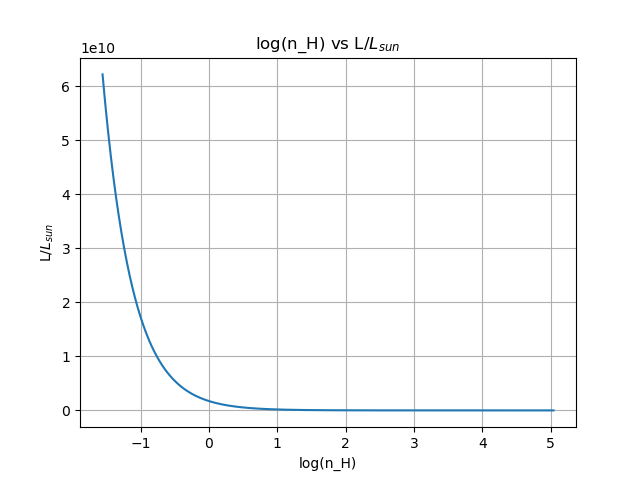
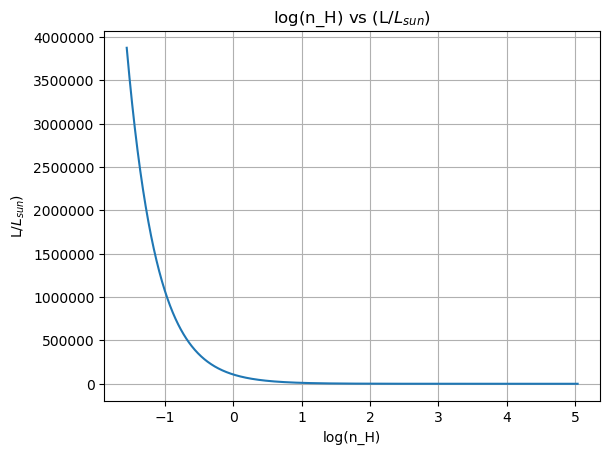
Units changed, file content changed
rad_tranfer.py --> main file for RT in LTE, will be renamed later
rt_LTE --> code dump from ine's code
Changed and added some constants in constants_lineRT.py
Changed all SI to CGS

diff --git a/rad_transfer.py b/rad_transfer.py
@@ -2,6 +2,7 @@ import numpy as np
 import matplotlib.pyplot as plt
 import os
 import copy
+from matplotlib.ticker import FormatStrFormatter as ticks
 
 from constants_lineRT import *
 
@@ -61,7 +62,7 @@ def read_file(species):
         i = int(words[1]) - 1
         j = int(words[2]) - 1
         A[i][j] = float(words[3])  # s^-1
-        freq[i][j] = float(words[4]) #* 1e9  # GHz -> Hz
+        freq[i][j] = float(words[4]) * 1e9  # GHz -> Hz
         freq[j][i] = freq[i][j]
     # compute B-coefficient via Einstein relations
     # Bij = coeff for stimulated emission, Bji = coeff for extinction (j<i)
@@ -69,7 +70,7 @@ def read_file(species):
     for i in range(0, num_lvls):
         for j in range(0, i):
             if A[i][j] != 0:
-                B[i][j] = A[i][j] * (c_si**2) / \
+                B[i][j] = A[i][j] * (c_cgs**2) / \
                     (2*h_ev * (freq[i][j])**3)  # m2/(eV*s)
                 B[j][i] = B[i][j] * g[i]/g[j]
 
@@ -93,13 +94,13 @@ def calc_source_func(T, nu_ij):
     if nu_ij==0.:
         return 0.
     else:
-        x = h_si*nu_ij/(kb_si*T)
-        # units eV*s * Hz3 / (m2/s2) = eV * s3 * Hz3 * m-2 = eV/s/Hz/m2
-        S_nu = 2.0*h_ev*(nu_ij**3)/(c**2) / (np.exp(x)-1.0)
+        x = h_ev*nu_ij/(kb_ev*T)
+        # units eV*s * Hz3 / (cm2/s2) = eV * s3 * Hz3 * cm-2 = eV/s/Hz/cm2
+        S_nu = 2.0*h_ev*(nu_ij**3)/(c_cgs**2) / (np.exp(x)-1.0)
         return S_nu
 
 def calc_extinction(T, n_j, nu_ij, B_ji):
-    x = h_si*nu_ij/(kb_si*T)
+    x = h_ev*nu_ij/(kb_ev*T)
     return (h_ev/(4*np.pi)) * nu_ij * n_j * B_ji * (1.0 - np.exp(-1*x))
 
 def calc_emissivity(extinction, S):
@@ -110,20 +111,28 @@ def make_pdf(s, s_bar, sigma_s):
     return pdf
 
 def calc_lambda_jeans(n_H):
-    m_p = 1.672621777e-24   # g
     T_mean = 10.            #K
-    K_b = 1.38064852e-16    # ergs K-1
-    G = 6.67408e-8          # dyne cm^2 g^-2
-    lambda_jeans = ((np.sqrt(K_b * T_mean / m_p)) / np.sqrt(4* np.pi * G * n_H * m_p))
+    lambda_jeans = ((np.sqrt(kb_ev * T_mean / m_p)) / np.sqrt(4* np.pi * G_cgs * n_H * m_p))
     return lambda_jeans
 
 def calc_n_LW(n_H, G_o, lambda_jeans):
-    m_p = 1.672621777e-24   # g
     kappa = 1000 * m_p
     rad_field_outside = G_o #in solar units
     exp_tau = np.exp(-kappa * n_H * lambda_jeans)
     n_LW = rad_field_outside * exp_tau
     return n_LW
+
+def calc_n_LW_ss(n_H, n_H2, G_o, lambda_jeans):
+    m_p = 1.672621777e-24   # g
+    kappa = 1000 * m_p
+    rad_field_outside = G_o #in solar units
+    exp_tau = np.exp(-kappa * n_H * lambda_jeans)
+    N_H2 = n_H2*lambda_jeans
+    term1 = (0.965/((1+(N_H2/5e14))**2))
+    term2 = ( (0.035/np.sqrt(1+(N_H2/5e14))) * np.exp(-1*np.sqrt(1+(N_H2/5e14))/1180) )
+    S_H2 = term1 + term2
+    n_LW_ss = rad_field_outside * exp_tau * S_H2
+    return n_LW_ss, S_H2, N_H2
 
 def calc_X_H2(n_H, Z, n_LW):
     DC = 1.7e-11
@@ -140,7 +149,10 @@ def calc_stats():
     X_H2 = np.zeros(1000)
     n_H = np.zeros(1000)
     n_LW = np.zeros(1000)
+    n_LW_ss = np.zeros(1000)
     n_H2 = np.zeros(1000)
+    S_H2 = np.zeros(1000)
+    N_H2 = np.zeros(1000)
     mach_no = 5
     sigma_s = np.sqrt(np.log(1 + ((0.3 * mach_no)**2)))
     s_bar = -0.5*(sigma_s**2)
@@ -152,16 +164,50 @@ def calc_stats():
     G_o = 1
     for i in range(0, 1000):
         s[i] = smin + i*ds
-    pdf = make_pdf(s, s_bar, sigma_s)
-    n_H = n_H_mean * np.exp(s)
-    lambda_jeans = calc_lambda_jeans(n_H)
-    n_LW = calc_n_LW(n_H, G_o, lambda_jeans)
-    X_H2 = calc_X_H2(n_H, Z, n_LW)
-    n_H2 = n_H * X_H2
+        pdf = make_pdf(s, s_bar, sigma_s)
+        n_H = n_H_mean * np.exp(s)
+        lambda_jeans = calc_lambda_jeans(n_H)
+        n_LW = calc_n_LW(n_H, G_o, lambda_jeans)
+        X_H2_a = calc_X_H2(n_H, Z, n_LW)
+        n_H2_a = n_H * X_H2_a
+        n_LW_1, S_H2_1, N_H2_1 = calc_n_LW_ss(n_H, n_H2_a, G_o, lambda_jeans)
+        X_H2_1 = calc_X_H2(n_H, Z, n_LW_1)
+        n_H2_1 = n_H * X_H2_1
+        n_LW_2, S_H2_2, N_H2_2 = calc_n_LW_ss(n_H, n_H2_1, G_o, lambda_jeans)
+        X_H2_2 = calc_X_H2(n_H, Z, n_LW_2)
+        n_H2_2 = n_H * X_H2_2
+        n_LW_3, S_H2_3, N_H2_3 = calc_n_LW_ss(n_H, n_H2_2, G_o, lambda_jeans)
+        X_H2_3 = calc_X_H2(n_H, Z, n_LW_3)
+        n_H2_3 = n_H * X_H2_3
+        n_LW_4, S_H2_4, N_H2_4 = calc_n_LW_ss(n_H, n_H2_3, G_o, lambda_jeans)
+        X_H2_4 = calc_X_H2(n_H, Z, n_LW_4)
+        n_H2_4 = n_H * X_H2_4
+        n_LW_5, S_H2_5, N_H2_5 = calc_n_LW_ss(n_H, n_H2_4, G_o, lambda_jeans)
+        X_H2_5 = calc_X_H2(n_H, Z, n_LW_5)
+        n_H2_5 = n_H * X_H2_5
+        n_LW_6, S_H2_6, N_H2_6 = calc_n_LW_ss(n_H, n_H2_5, G_o, lambda_jeans)
+        X_H2_6 = calc_X_H2(n_H, Z, n_LW_6)
+        n_H2_6 = n_H * X_H2_6
+        n_LW_7, S_H2_7, N_H2_7 = calc_n_LW_ss(n_H, n_H2_6, G_o, lambda_jeans)
+        X_H2_7 = calc_X_H2(n_H, Z, n_LW_7)
+        n_H2_7 = n_H * X_H2_7
+        n_LW_8, S_H2_8, N_H2_8 = calc_n_LW_ss(n_H, n_H2_7, G_o, lambda_jeans)
+        X_H2_8 = calc_X_H2(n_H, Z, n_LW_8)
+        n_H2_8 = n_H * X_H2_8
+        n_LW_9, S_H2_9, N_H2_9 = calc_n_LW_ss(n_H, n_H2_8, G_o, lambda_jeans)
+        X_H2_9 = calc_X_H2(n_H, Z, n_LW_9)
+        n_H2_9 = n_H * X_H2_9
+        n_LW_10, S_H2_10, N_H2_10 = calc_n_LW_ss(n_H, n_H2_9, G_o, lambda_jeans)
+        X_H2_10 = calc_X_H2(n_H, Z, n_LW_10)
+        n_H2_10 = n_H * X_H2_10
+        n_LW_ss, S_H2, N_H2 = calc_n_LW_ss(n_H, n_H2_10, G_o, lambda_jeans)
+        X_H2 = calc_X_H2(n_H, Z, n_LW_ss)
+        n_H2 = n_H * X_H2
 
     return n_H, n_H2, X_H2, lambda_jeans
 
 def plotting(L, n_H, ni, source_func, extinction, emissivity, n_H2, X_H2):
+    fig, ax = plt.subplots()
     i = 2
     j = 1
     #for m in range(0,1000):
@@ -169,35 +215,28 @@ def plotting(L, n_H, ni, source_func, extinction, emissivity, n_H2, X_H2):
     plt.xlabel('n_H')
     plt.ylabel('L/$L_{sun}$')
     plt.grid(b=True, which='both', axis='both')
-    plt.title('n_H vs L/$L_{sun}$')
-    plt.savefig(os.path.join('n_HvsL.png'.format()))
+    ax.yaxis.set_major_formatter(ticks('%.2f'))
+    plt.title('n_H vs (L/$L_{sun}$)')
+    plt.savefig(os.path.join('n_HvsL.png'.format()), dpi= 'figure', bbox_inches= 'tight')
     plt.clf()
 
     plt.plot(np.log10(n_H), L[i][j])
     plt.xlabel('log(n_H)')
-    plt.ylabel('L/$L_{sun}$')
+    plt.ylabel('L/$L_{sun}$)')
     plt.grid(b=True, which='both', axis='both')
-    plt.title('log(n_H) vs L/$L_{sun}$')
-    plt.savefig(os.path.join('log(n_H)vsL.png'.format()))
+    ax.yaxis.set_major_formatter(ticks('%.2f'))
+    plt.title('log(n_H) vs (L/$L_{sun}$)')
+    plt.savefig(os.path.join('log(n_H)vsL.png'.format()), dpi= 'figure', bbox_inches= 'tight')
     plt.clf()
 
     plt.plot(np.log10(n_H), np.log10(L[i][j]))
     plt.xlabel('log(n_H)')
-    plt.ylabel('log(L/$L_{sun}$')
+    plt.ylabel('log(L/$L_{sun}$)')
     plt.grid(b=True, which='both', axis='both')
-    plt.title('log(n_H) vs log(L/$L_{sun}$')
+    ax.yaxis.set_major_formatter(ticks('%.1f'))
+    plt.title('log(n_H) vs log(L/$L_{sun}$)')
     plt.savefig(os.path.join('log(n_H)vslog(L).png'.format()))
     plt.clf()
-
-    for z in range(0,1000):
-        plt.plot(ni[i], L[i][j][z])
-    plt.xlabel('ni')
-    plt.ylabel('L/$L_{sun}$')
-    plt.grid(b=True, which='both', axis='both')
-    plt.title('ni vs L/$L_{sun}$')
-    plt.savefig(os.path.join('nivsL.png'.format()))
-    plt.clf()
-
 
 if __name__ == '__main__':
     path = 'for RT_LTE'
@@ -209,7 +248,6 @@ if __name__ == '__main__':
     extinction = np.zeros((num_lvls, num_lvls))
     emissivity = np.zeros((num_lvls, num_lvls))
     L = np.zeros((num_lvls, num_lvls, 1000))
-    L_sun = 3.828e26
     #calculate LTE occupation numbers with partition function method
     ni = calc_lvl_pops_partion(T, num_lvls, g, E)
     for i in range(0, num_lvls):

diff --git a/constants_lineRT.py b/constants_lineRT.py
@@ -16,6 +16,7 @@ G_cgs = 6.67259e-8 #cm^3 g^-1 s^-2        # gravitational constant
 
 mH_cgs = 1.6737236e-24 # g                # hydrogen mass
 MH = 1.6737236e-27 # kg                # hydrogen mass
+m_p = 1.672621777e-24   # g             #mass of proton
 
 PC = 3.0857e16 #m                    # 1 parsec
 AU_cgs = 1.49597871e13 #cm                # 1 astronomical unit
@@ -23,5 +24,6 @@ AU_cgs = 1.49597871e13 #cm                # 1 astronomical unit
 yr_cgs = 3.1556926e7 #s                   # 1 year
 
 MSUN = 1.989e30 #kg                    # solar mass
+L_sun = 2.3892497766e+45 #eV/s         #one nominal solar luminosity
 
 eV = 6.241509e18 #J
